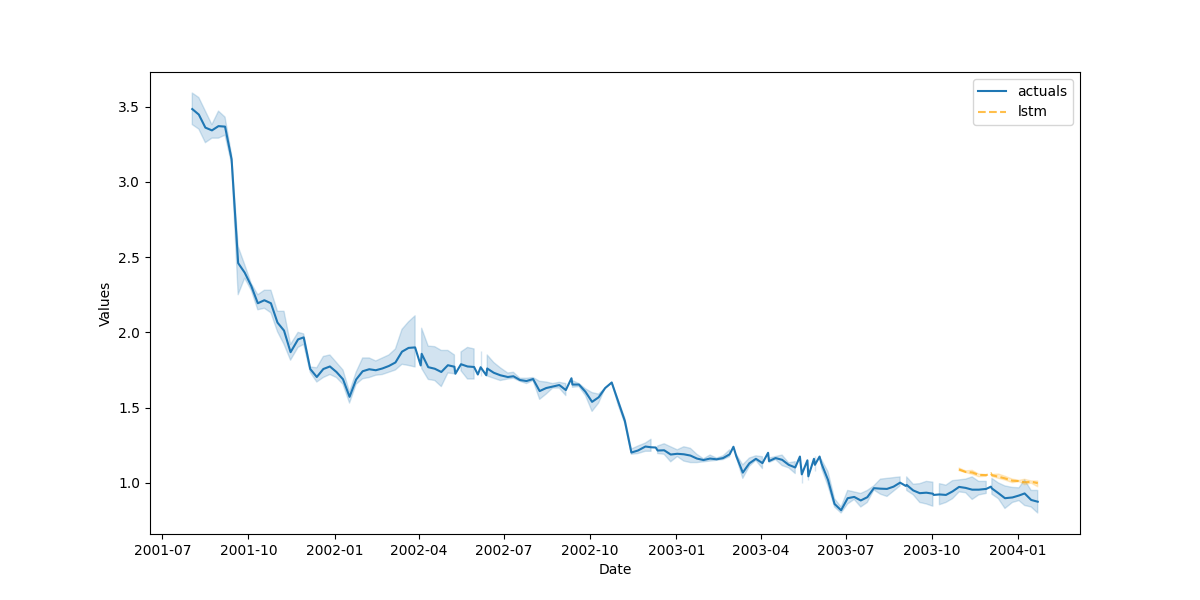
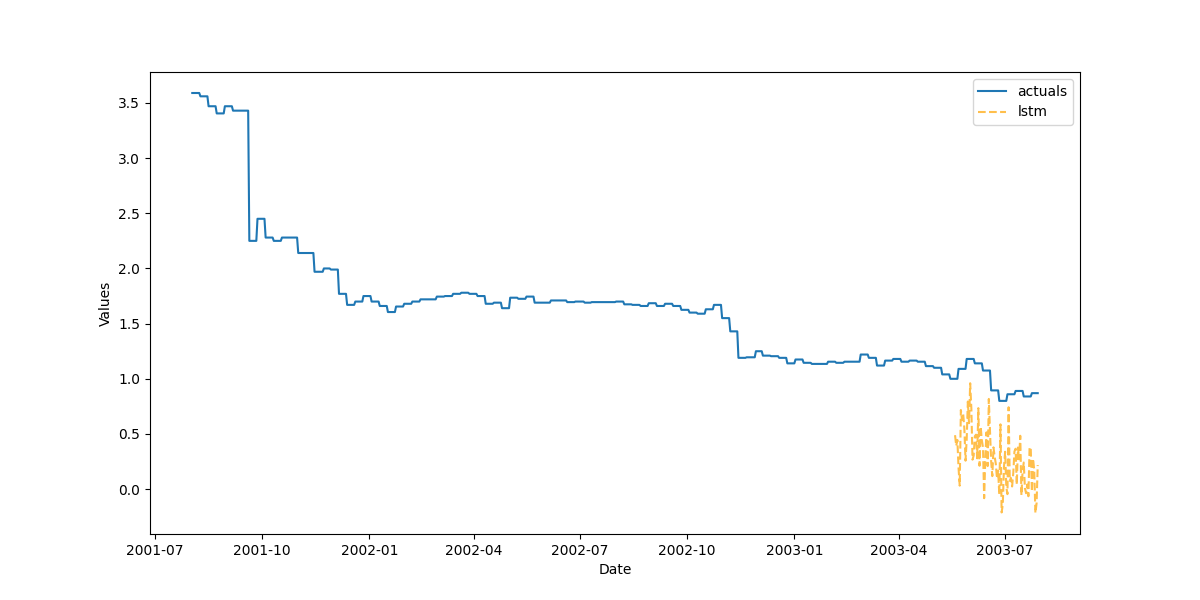
tried more things with lstm

diff --git a/lstm.py b/lstm.py
@@ -26,6 +26,7 @@ BATCH_SIZE = 32 # original: 32
 def get_LSTM_model_cv(df):
     df = utils.get_auction_type_df(df)
     # df = utils.resample_data(df)
+    print(df)
 
     n_splits = 10  # Number of cross-validation folds
     tscv = TimeSeriesSplit(n_splits=n_splits)
@@ -83,7 +84,7 @@ def get_LSTM_model_cv(df):
     # print(ss.values)
     # f.save_summary_stats()
     # f.all_feature_info_to_excel(out_path='./', excel_name='lstm_feature_info.xlsx')
-        f.plot_test_set()
+        f.plot_test_set(include_train=False)
         plt.savefig('images/lstm_cv/lstm' + str(i) + '.png')
         # plt.close()
         # f.plot_test_set()
@@ -97,7 +98,7 @@ def get_LSTM_model_cv(df):
 
 def get_LSTM_model(df):
     df = utils.get_auction_type_df(df)
-    # df = utils.resample_data(df)
+    df = utils.resample_data(df)
     train, test = utils.split_train_test(df, 1, split_xy=False)
     f = Forecaster(
     y=train['Auction high rate %'],
@@ -140,12 +141,12 @@ def get_LSTM_model(df):
    # print(ss.values)
    # f.save_summary_stats()
    # f.all_feature_info_to_excel(out_path='./', excel_name='lstm_feature_info.xlsx')
-    f.plot_test_set()
+    f.plot_test_set(include_train=False)
     plt.savefig('images/lstm.png')
     plt.close()
-    f.plot_test_set()
+    f.plot_test_set(include_train=False)
     plt.show()
     f.export(to_excel=True)
     
 
-get_LSTM_model_cv('df_all')
+get_LSTM_model('four_week')
